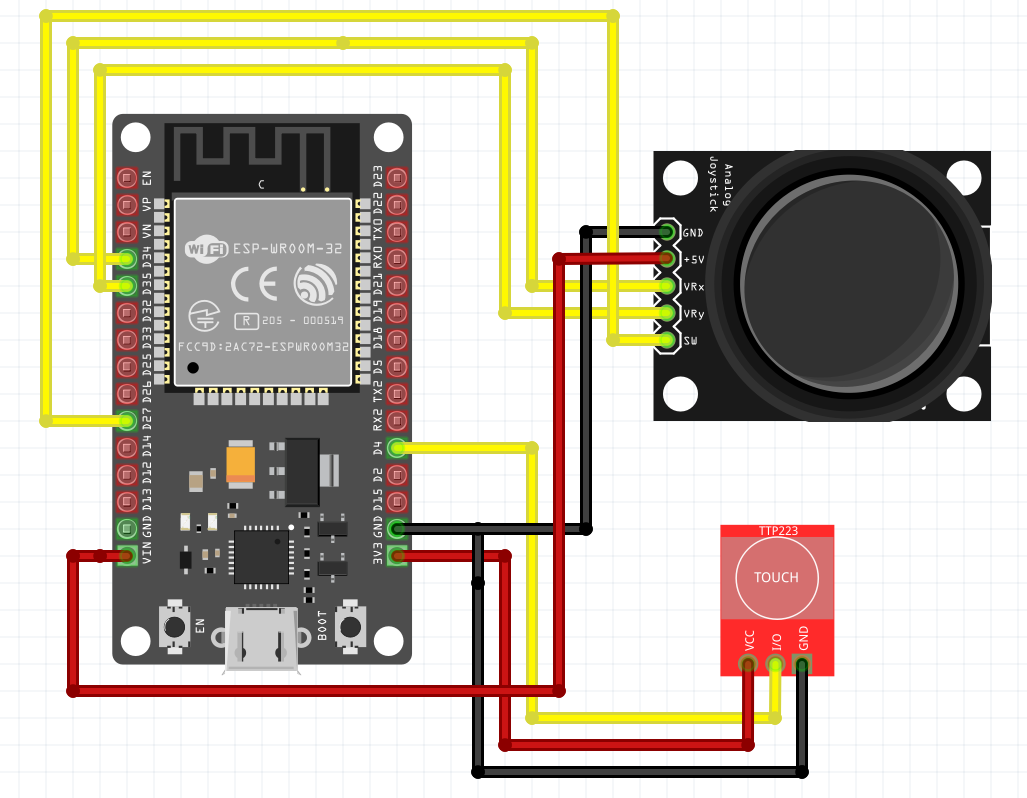
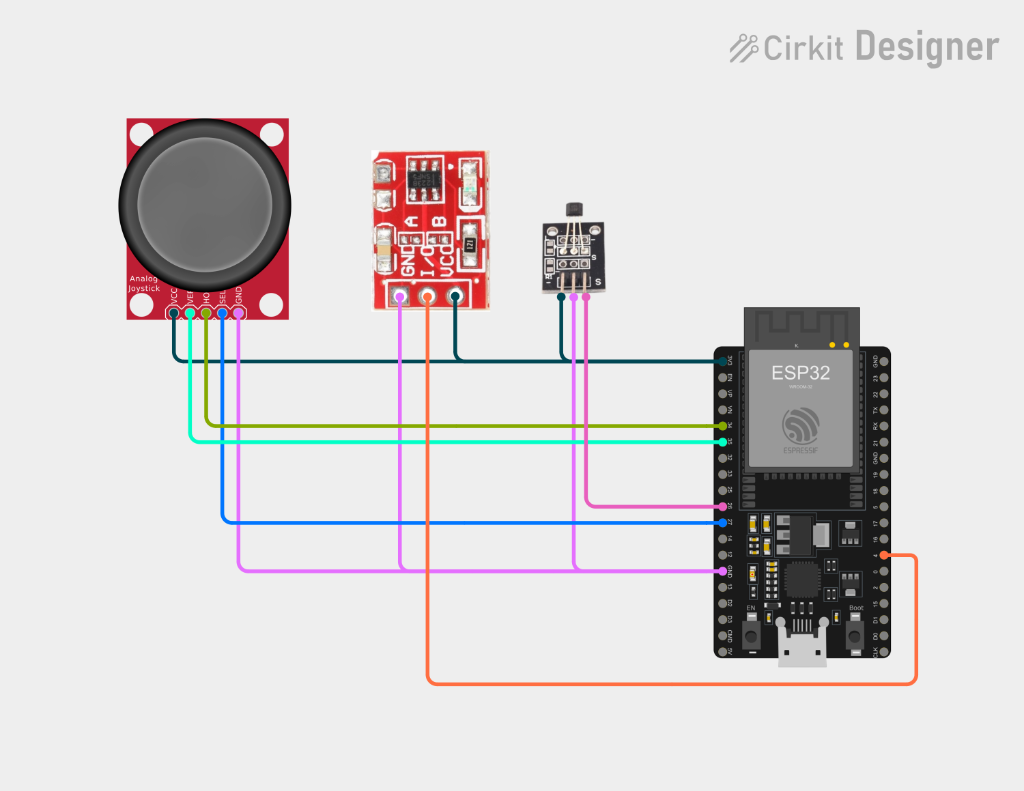
Add wiring diagrams for Modul 2 (Percobaan 1) and Modul 3 (Percobaan 1 & 3), and reference Gambar 9 in Modul 5 Percobaan 3

diff --git a/Modul_3_Komunikasi_Serial.md b/Modul_3_Komunikasi_Serial.md
@@ -152,6 +152,10 @@ Mahasiswa mampu mengimplementasikan komunikasi UART antara dua board ESP32 mengg
 
 > Kedua board tetap terhubung ke PC melalui USB masing-masing (untuk power dan Serial Monitor UART0), sehingga total terdapat 3 kabel yang menghubungkan kedua board: TX↔RX (silang) dan GND bersama.
 
+<img src="img/wiring_uart_esp32.png" alt="Gambar 6: Diagram wiring komunikasi UART2 silang antara dua board ESP32 (GPIO 17 ke GPIO 16, GPIO 16 ke GPIO 17, dan GND ke GND)" width="60%">
+
+*Gambar 6: Diagram wiring komunikasi UART2 silang antara dua board ESP32 (GPIO 17 ke GPIO 16, GPIO 16 ke GPIO 17, dan GND ke GND)*
+
 **`platformio.ini`** (sama untuk project Transmitter maupun Receiver):
 ```ini
 [env:esp32dev]
@@ -244,9 +248,9 @@ Mahasiswa mampu mengimplementasikan interfacing lebih dari satu modul I2C nyata 
 
 > Kedua perangkat disambungkan ke **pin SDA/SCL yang sama** — ini adalah inti dari percobaan ini: membuktikan bahwa I2C dapat melayani banyak perangkat pada satu bus fisik, selama alamatnya berbeda (OLED = `0x3C`, MPU6500 = `0x68`). Perhatikan juga bahwa modul MPU6500 ini adalah **modul yang sama** yang nanti dipakai ulang pada Percobaan 3–4 melalui SPI — cukup pindahkan wiring CS dari "ditarik ke 3.3V" menjadi "terhubung ke GPIO CS ESP32" saat berpindah Percobaan.
 
-<img src="img/wiring_oled_mpu6500.png" alt="Gambar 6: Wiring OLED dan MPU6500 berbagi bus I2C (SDA/SCL) yang sama pada ESP32" width="60%">
+<img src="img/wiring_oled_mpu6500.png" alt="Gambar 7: Wiring OLED dan MPU6500 berbagi bus I2C (SDA/SCL) yang sama pada ESP32" width="60%">
 
-*Gambar 6: Wiring OLED dan MPU6500 berbagi bus I2C (SDA/SCL) yang sama pada ESP32*
+*Gambar 7: Wiring OLED dan MPU6500 berbagi bus I2C (SDA/SCL) yang sama pada ESP32*
 
 **`platformio.ini`:**
 ```ini
@@ -496,6 +500,10 @@ Mahasiswa mampu mengimplementasikan komunikasi SPI dengan membaca data akselerom
 | MPU6500 — SCK (SCL pada mode I2C) | GPIO 18 | SPI default ESP32 |
 | MPU6500 — VCC/GND | 3.3V, GND | MPU6500 umumnya hanya toleran 3.3V |
 
+<img src="img/wiring_mpu6500_spi.png" alt="Gambar 8: Diagram wiring modul MPU6500 ke ESP32 melalui antarmuka SPI (CS=GPIO 5, SCK=GPIO 18, MISO/AD0=GPIO 19, MOSI/SDA=GPIO 23)" width="60%">
+
+*Gambar 8: Diagram wiring modul MPU6500 ke ESP32 melalui antarmuka SPI (CS=GPIO 5, SCK=GPIO 18, MISO/AD0=GPIO 19, MOSI/SDA=GPIO 23)*
+
 **`platformio.ini`:**
 ```ini
 [env:esp32dev]
@@ -682,7 +690,7 @@ Mahasiswa mampu menjelaskan konsep DMA pada SPI dan mengimplementasikan pembacaa
 > **Catatan:** Percobaan ini menggunakan driver SPI master dari ESP-IDF (`driver/spi_master.h`) yang tetap dapat dipanggil langsung dari sketch Arduino karena Arduino-ESP32 core dibangun di atas ESP-IDF. API ini (termasuk `SPI_DMA_CH_AUTO`) sudah tersedia sejak ESP-IDF 4.x yang dibawa oleh **Arduino-ESP32 core 2.0.x** (platform `espressif32` resmi tanpa versi khusus), sehingga tidak memerlukan platform komunitas tambahan seperti pada Modul 2.
 
 **Skema Rangkaian:**
-Gunakan rangkaian MPU6500 yang sama dengan **Percobaan 3** (CS=GPIO 5, MOSI=GPIO 23, MISO=GPIO 19, SCK=GPIO 18).
+Gunakan rangkaian MPU6500 yang sama dengan **Percobaan 3** (CS=GPIO 5, MOSI=GPIO 23, MISO=GPIO 19, SCK=GPIO 18 — lihat **Gambar 8**).
 
 **`platformio.ini`:**
 ```ini
@@ -954,9 +962,9 @@ Mahasiswa mampu mengimplementasikan komunikasi Ethernet menggunakan modul W5500 
 > - **Via switch/router (DHCP aktif):** colokkan W5500 dan PC ke switch/router yang sama. PC tetap dapat internet, cukup pilih `ip(...)` pada kode yang satu subnet dengan router dan belum dipakai perangkat lain.
 > - **Koneksi langsung (kabel RJ45 W5500 → port Ethernet laptop):** tidak ada DHCP, sehingga **IP statis wajib diatur manual di kedua sisi** (ESP32 lewat kode, PC lewat setelan Windows di bawah). Cara ini paling sederhana untuk praktikum karena tidak bergantung pada jaringan lab.
 
-<img src="img/wiring_w5500_percobaan5.png" alt="Gambar 7: Contoh wiring modul W5500 ke ESP32 via SPI (nomor GPIO pada gambar ilustratif, ikuti tabel di atas untuk pin yang sesuai kode)" width="60%">
+<img src="img/wiring_w5500_percobaan5.png" alt="Gambar 9: Contoh wiring modul W5500 ke ESP32 via SPI (nomor GPIO pada gambar ilustratif, ikuti tabel di atas untuk pin yang sesuai kode)" width="60%">
 
-*Gambar 7: Contoh wiring modul W5500 ke ESP32 via SPI (nomor GPIO pada gambar ilustratif, ikuti tabel di atas untuk pin yang sesuai kode)*
+*Gambar 9: Contoh wiring modul W5500 ke ESP32 via SPI (nomor GPIO pada gambar ilustratif, ikuti tabel di atas untuk pin yang sesuai kode)*
 
 **`platformio.ini`:**
 ```ini
@@ -982,7 +990,7 @@ Kode contoh memberi ESP32 alamat `192.168.1.177`. Atur PC pada subnet yang sama 
    - **DNS:** kosongkan
 5. Klik **Save**
 
-![Gambar 8: Tangkapan layar Settings Windows 11 — Network & internet → Ethernet → IP assignment diatur ke Manual, IPv4 aktif dengan IP address 192.168.1.10 dan subnet mask 255.255.255.0](img/win_static_ip_settings.png)
+![Gambar 10: Tangkapan layar Settings Windows 11 — Network & internet → Ethernet → IP assignment diatur ke Manual, IPv4 aktif dengan IP address 192.168.1.10 dan subnet mask 255.255.255.0](img/network_internet_win.png)
 
 *Cara 2 — Control Panel (semua versi Windows):*
 1. Tekan `Win + R`, ketik `ncpa.cpl`, tekan Enter
@@ -994,7 +1002,7 @@ Kode contoh memberi ESP32 alamat `192.168.1.177`. Atur PC pada subnet yang sama 
    - **Default gateway:** kosong
 5. Biarkan DNS kosong → **OK** → **Close**
 
-![Gambar 9: Tangkapan layar dialog "Internet Protocol Version 4 (TCP/IPv4) Properties" pada Control Panel Windows, dengan opsi "Use the following IP address" dipilih dan diisi IP 192.168.1.10 / subnet 255.255.255.0](img/win_static_ip_ncpa.png)
+![Gambar 11: Tangkapan layar dialog "Internet Protocol Version 4 (TCP/IPv4) Properties" pada Control Panel Windows, dengan opsi "Use the following IP address" dipilih dan diisi IP 192.168.1.10 / subnet 255.255.255.0](img/ip_setting_win.png)
 
 *Verifikasi & pengembalian setelan:*
 - Buka **Command Prompt**, jalankan `ipconfig` — pastikan adapter Ethernet menampilkan `IPv4 Address` = `192.168.1.10`

diff --git a/Modul_2_Sensor_dan_Aktuator.md b/Modul_2_Sensor_dan_Aktuator.md
@@ -204,9 +204,9 @@ Mahasiswa mampu memahami dan mengimplementasikan pembacaan sensor resistif melal
 
 > **Catatan:** Pin **GPIO 34, 35, 27** yang digunakan joystick pada Percobaan ini sengaja dipertahankan **konsisten** di Percobaan 3 dan 6 modul ini, karena joystick akan dipakai berulang sebagai input kontrol aktuator pada Percobaan-Percobaan tersebut.
 
-<!-- <img src="img/wiring_joystick_touch.png" alt="Gambar 9: Diagram wiring joystick KY-023 dan modul touch TTP223 ke ESP32 (hall effect sensor tidak ditampilkan, rangkai sesuai tabel di atas)" width="60%"> -->
+<img src="img/wiring_joystick_touch.png" alt="Gambar 9: Diagram wiring joystick KY-023, modul touch TTP223, dan hall effect sensor ke ESP32" width="60%">
 
-<!-- *Gambar 9: Diagram wiring joystick KY-023 dan modul touch TTP223 ke ESP32 (hall effect sensor tidak ditampilkan, rangkai sesuai tabel di atas)* -->
+*Gambar 9: Diagram wiring joystick KY-023, modul touch TTP223, dan hall effect sensor ke ESP32*
 
 **`platformio.ini`:**
 ```ini
@@ -285,9 +285,9 @@ Mahasiswa mampu mengimplementasikan pembacaan sensor ultrasonik (basis akustik) 
 | Sensor IR obstacle — OUT | GPIO 19 | Output digital (umumnya aktif LOW saat objek terdeteksi) |
 | Sensor IR obstacle — VCC / GND | 3.3V / GND | Sesuai datasheet modul |
 
-<img src="img/wiring_ultrasonik_ir.png" alt="Gambar 9: Diagram wiring sensor ultrasonik HC-SR04 dan sensor IR obstacle ke ESP32" width="60%">
+<img src="img/wiring_ultrasonik_ir.png" alt="Gambar 10: Diagram wiring sensor ultrasonik HC-SR04 dan sensor IR obstacle ke ESP32" width="60%">
 
-*Gambar 9: Diagram wiring sensor ultrasonik HC-SR04 dan sensor IR obstacle ke ESP32*
+*Gambar 10: Diagram wiring sensor ultrasonik HC-SR04 dan sensor IR obstacle ke ESP32*
 
 **`platformio.ini`:**
 ```ini
@@ -388,9 +388,9 @@ Mahasiswa mampu mengimplementasikan kontrol kecepatan dan arah putar motor DC me
 | Motor DC — M1 (kabel Merah, +) | Driver OUT1 | Menukar M1/M2 membalik arah putar default motor |
 | Motor DC — M2 (kabel Putih, −) | Driver OUT2 | — |
 
-<img src="img/wiring_motor_dc_l298n.png" alt="Gambar 10: Contoh wiring motor DC via driver L298N dikendalikan joystick (nomor GPIO pada gambar ilustratif, ikuti tabel di atas untuk pin yang sesuai kode)" width="60%">
+<img src="img/wiring_motor_dc_l298n.png" alt="Gambar 11: Contoh wiring motor DC via driver L298N dikendalikan joystick (nomor GPIO pada gambar ilustratif, ikuti tabel di atas untuk pin yang sesuai kode)" width="60%">
 
-*Gambar 10: Contoh wiring motor DC via driver L298N dikendalikan joystick (nomor GPIO pada gambar ilustratif, ikuti tabel di atas untuk pin yang sesuai kode)*
+*Gambar 11: Contoh wiring motor DC via driver L298N dikendalikan joystick (nomor GPIO pada gambar ilustratif, ikuti tabel di atas untuk pin yang sesuai kode)*
 
 **`platformio.ini`:**
 ```ini
@@ -530,9 +530,9 @@ Mahasiswa mampu mengimplementasikan kontrol motor stepper 4-fasa melalui driver 
 
 > **Catatan:** Skema ini menggunakan driver stepper 4-fasa (mis. ULN2003 untuk motor stepper 28BYJ-48), sesuai kode program yang mengatur `stepSequence` 4-bit secara langsung — berbeda dari driver STEP/DIR (A4988/DRV8825) yang dibahas pada **C.7 Motor Stepper**. Jika menggunakan driver STEP/DIR, sesuaikan fungsi `setStep()`/`stopMotor()` menjadi pulsa pada pin STEP dan level pada pin DIR.
 
-<img src="img/wiring_motor_stepper_percobaan4.png" alt="Gambar 11: Wiring motor stepper 28BYJ-48 via driver ULN2003 ke ESP32 (IN1–IN4 ke GPIO 16, 17, 18, 19) dengan catu daya eksternal" width="70%">
+<img src="img/wiring_motor_stepper_percobaan4.png" alt="Gambar 12: Wiring motor stepper 28BYJ-48 via driver ULN2003 ke ESP32 (IN1–IN4 ke GPIO 16, 17, 18, 19) dengan catu daya eksternal" width="70%">
 
-*Gambar 11: Wiring motor stepper 28BYJ-48 via driver ULN2003 ke ESP32 (IN1–IN4 ke GPIO 16, 17, 18, 19) dengan catu daya eksternal*
+*Gambar 12: Wiring motor stepper 28BYJ-48 via driver ULN2003 ke ESP32 (IN1–IN4 ke GPIO 16, 17, 18, 19) dengan catu daya eksternal*
 
 **`platformio.ini`:**
 ```ini
@@ -659,9 +659,9 @@ Mahasiswa mampu mengimplementasikan kontrol posisi sudut motor servo menggunakan
 | Servo motor — VCC (kabel Merah) | Pin 5V ESP32 | Daya servo diambil dari pin 5V board (**jangan** gunakan pin 3.3V) |
 | Servo motor — GND (kabel Cokelat/Hitam) | GND ESP32 | — |
 
-<img src="img/wiring_servo.png" alt="Gambar 12: Wiring motor servo ke ESP32 (sinyal ke GPIO 13, daya servo dan GND ke pin 5V dan GND ESP32)" width="60%">
+<img src="img/wiring_servo.png" alt="Gambar 13: Wiring motor servo ke ESP32 (sinyal ke GPIO 13, daya servo dan GND ke pin 5V dan GND ESP32)" width="60%">
 
-*Gambar 12: Wiring motor servo ke ESP32 (sinyal ke GPIO 13, daya servo dan GND ke pin 5V dan GND ESP32)*
+*Gambar 13: Wiring motor servo ke ESP32 (sinyal ke GPIO 13, daya servo dan GND ke pin 5V dan GND ESP32)*
 
 **`platformio.ini`:**
 ```ini
@@ -764,9 +764,9 @@ Mahasiswa mampu memahami prinsip kerja ESC sebagai pengendali motor brushless, s
 | ESC — Power input (+ / −) | Baterai LiPo 2S–3S (7.4V–11.1V) | Jalur daya utama motor, **terpisah** dari power ESP32 |
 | ESC — 3 kabel fasa output | 3 kabel Motor Brushless (BLDC) | Menukar 2 dari 3 kabel fasa akan membalik arah putar motor |
 
-<img src="img/wiring_esc_bldc.png" alt="Gambar 13: Contoh wiring ESC, motor brushless (BLDC), baterai LiPo, dan joystick ke ESP32 (nomor GPIO pada gambar ilustratif, ikuti tabel di atas untuk pin yang sesuai kode)" width="60%">
+<img src="img/wiring_esc_bldc.png" alt="Gambar 14: Contoh wiring ESC, motor brushless (BLDC), baterai LiPo, dan joystick ke ESP32 (nomor GPIO pada gambar ilustratif, ikuti tabel di atas untuk pin yang sesuai kode)" width="60%">
 
-*Gambar 13: Contoh wiring ESC, motor brushless (BLDC), baterai LiPo, dan joystick ke ESP32 (nomor GPIO pada gambar ilustratif, ikuti tabel di atas untuk pin yang sesuai kode)*
+*Gambar 14: Contoh wiring ESC, motor brushless (BLDC), baterai LiPo, dan joystick ke ESP32 (nomor GPIO pada gambar ilustratif, ikuti tabel di atas untuk pin yang sesuai kode)*
 
 **`platformio.ini`:**
 ```ini

diff --git a/Modul_5_Filtering_dan_PID.md b/Modul_5_Filtering_dan_PID.md
@@ -474,6 +474,8 @@ Mahasiswa mampu menerapkan Kalman filter 1D sebagai metode filtering alternatif 
 | Encoder — VCC (kabel Biru) | 3.3V–5V | Suplai daya sensor encoder |
 | Encoder — GND (kabel Hitam) | GND | — |
 
+> Rangkaian sama persis dengan **Percobaan 2** (lihat **Gambar 7**).
+
 **`platformio.ini`:**
 ```ini
 [env:esp32dev]
